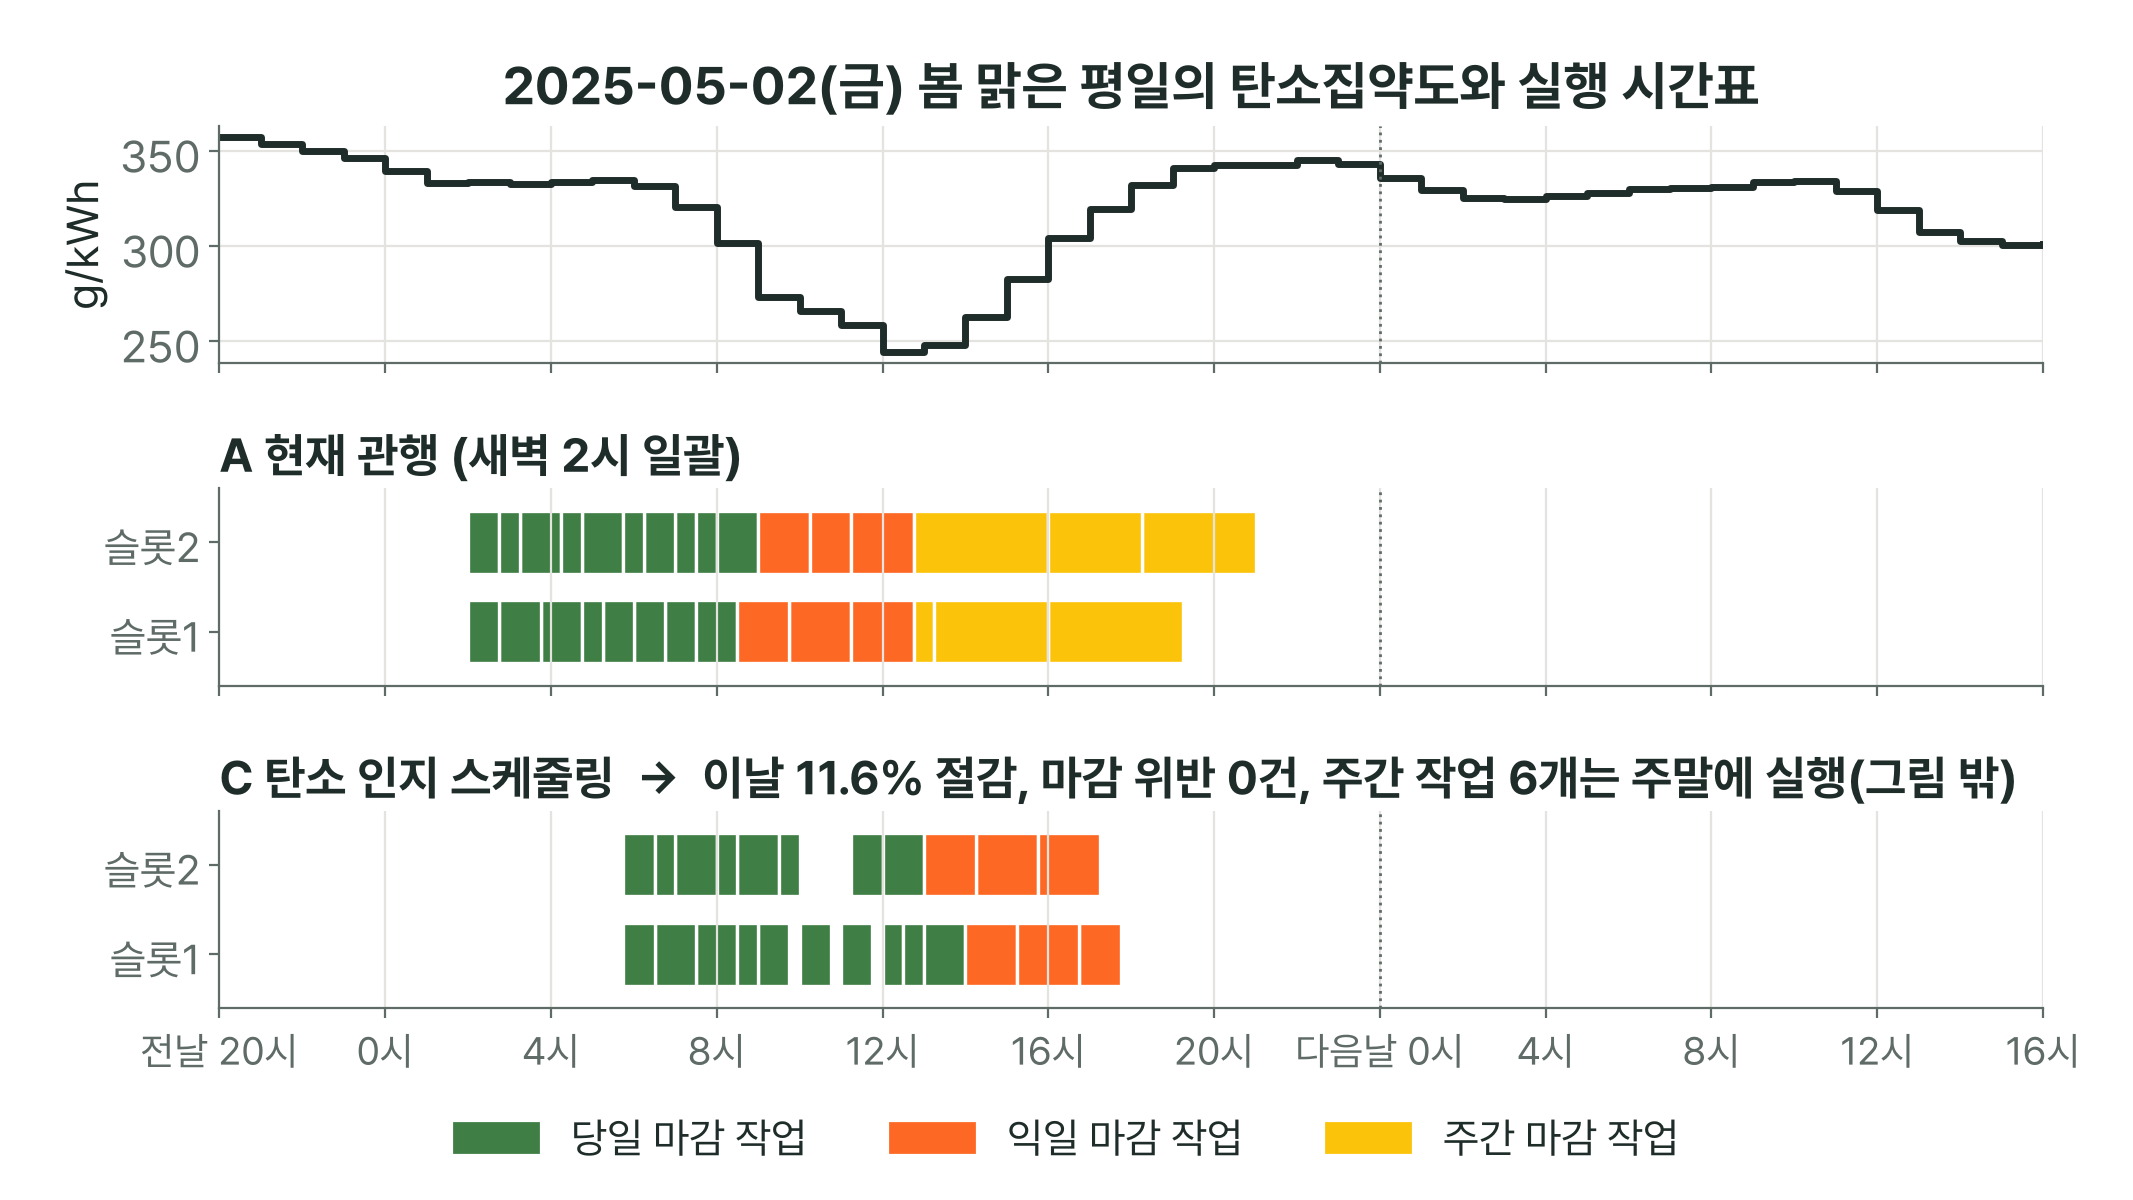
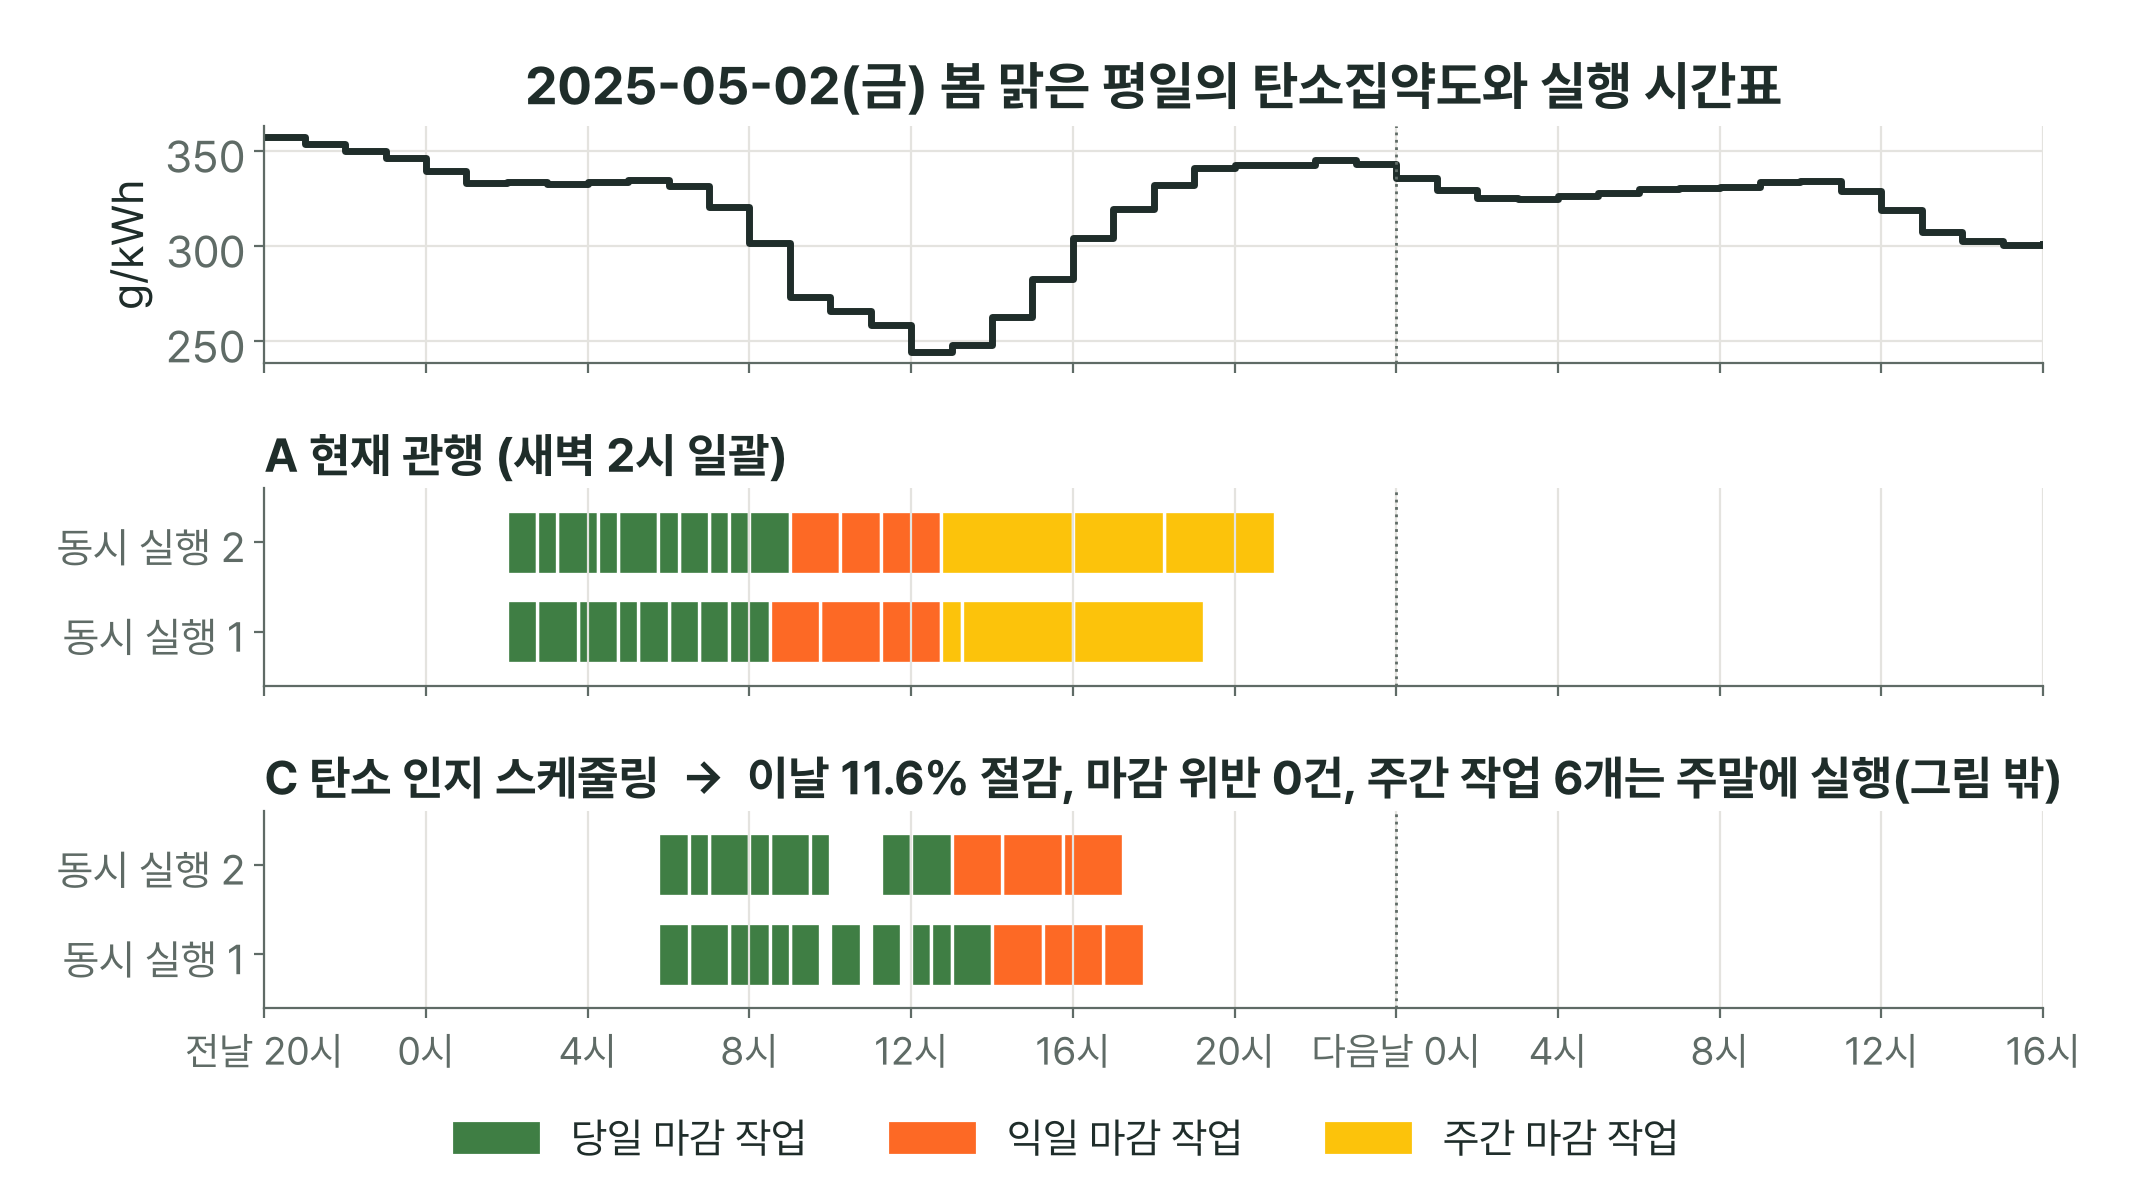
대본 비전공자용 표현 수정, 1장 대본 교체, 간트 축 라벨, 내보내기 안전장치
- 1장 대본: 배치 작업의 뜻과 은행 정산 예를 넣은 새 대본으로 교체
- 7·8·15장 대본: 스케줄링, 가능성 검사, 에이징, 메모리 대기를 쉬운 말로 풀어 씀
- 10장 간트 차트 y축 '슬롯1/2' -> '동시 실행 1/2'
- 09_export_deck.ps1: 결과 파일이 열려 있으면 멈추고, 원래 실행 중이던 PowerPoint는 닫지 않음
- 대본.md 갱신(2,330음절, 약 7.8~8.6분), 발표자 노트 재생성

diff --git a/scripts/07_slide_figures.py b/scripts/07_slide_figures.py
@@ -233,7 +233,7 @@ def fig_gantt_ac(plt, name: str):
             ax.barh(row.slot, min(row.end_h, x_max) - row.start_h, left=row.start_h, height=0.7,
                     color=colors[row.cls], edgecolor="white", lw=1.2)
         ax.set_yticks(range(cfg.SLOTS))
-        ax.set_yticklabels([f"슬롯{i + 1}" for i in range(cfg.SLOTS)], fontsize=15)
+        ax.set_yticklabels([f"동시 실행 {i + 1}" for i in range(cfg.SLOTS)], fontsize=15)
         ax.set_ylim(-0.6, cfg.SLOTS - 0.4)
         ax.grid(axis="y", visible=False)
         tot = r["emis_g"].sum()

diff --git a/04_발표자료/slides_draft.md b/04_발표자료/slides_draft.md
@@ -17,8 +17,8 @@
   - SDG 7.3 · 9.4 · 13.3
   - 숭실대학교 컴퓨터학부 박수진 (학번은 제출본 표지에만 넣고 저장소에는 두지 않음)
 - **그래프:** 없음
-- **대본 (약 25초):**
-  안녕하세요, 박수진입니다. 저는 Spring Batch로 항공권 가격을 정기적으로 바꾸는 배치를 운영해 본 적이 있습니다. 이런 배치는 보통 사람이 적은 새벽에 돌립니다. 그런데 새벽이 정말 지구에도 좋은 시간일까요? 오늘은 "내가 돌려 본 배치를 탄소를 생각하는 방식으로 바꾼다면"이라는 질문에서 시작한 프로젝트를 소개하겠습니다.
+- **대본 (약 40초):**
+  안녕하세요, 박수진입니다. 저는 항공권 가격을 정기적으로 바꾸는 배치 작업을 운영해 본 적이 있습니다. 배치 작업이란 데이터를 들어올 때마다 하나씩 처리하지 않고, 모아 두었다가 정해진 시간에 한꺼번에 처리하는 방식입니다. 은행이 밤에 하루치 거래를 한 번에 정산하는 것이 대표적입니다. 이런 배치는 보통 사람이 적은 새벽에 돌립니다. 그런데 새벽이 정말 지구에도 좋은 시간일까요? 오늘은 "내가 돌려 본 배치를 탄소를 생각하는 방식으로 바꾼다면"이라는 질문에서 시작한 프로젝트를 소개하겠습니다.
 
 ---
 
@@ -119,7 +119,7 @@
 - **하단:** EDF: 마감 빠른 순 처리(8장에서 설명) · DVFS: CPU 속도·전압 조절(15장에서 설명)
 - **그래프:** 없음 (표)
 - **대본 (약 30초):**
-  운영체제에서는 CPU 스케줄링에 탄소라는 비용을 더하고, 마감이 급한 일부터 처리하기, 모두 마감 안에 끝낼 수 있는지 미리 확인하기, 오래 기다린 일 챙기기를 가져왔습니다. 컴퓨터구조의 전력 공식으로는 CPU 속도를 낮출 때 에너지가 얼마나 주는지 계산했습니다. 클라우드네트워킹에서는 작업을 "언제" 돌릴지 옮기는 부분을 구현했습니다. 확률과통계로는 탄소의 분포와 예측 오차를 봤습니다.
+  운영체제에서는 컴퓨터가 여러 일의 순서를 정하는 방법인 스케줄링에 탄소라는 비용을 더하고, 마감이 급한 일부터 처리하기, 모두 마감 안에 끝낼 수 있는지 미리 확인하기, 오래 기다린 일 챙기기를 가져왔습니다. 컴퓨터구조의 전력 공식으로는 CPU 속도를 낮출 때 에너지가 얼마나 줄어드는지 계산했습니다. 클라우드네트워킹에서는 작업을 "언제" 돌릴지 옮기는 부분을 구현했습니다. 확률과통계로는 탄소의 분포와 예측 오차를 봤습니다.
 
 ---
 
@@ -133,7 +133,7 @@
 - **용어:** EDF(Earliest Deadline First)는 마감이 빠른 작업부터 처리하는 방식. 가능성 검사(schedulability test)는 "이 작업들을 모두 마감 안에 끝낼 수 있는가"를 미리 따져 보는 것. 기아(starvation)는 작업이 계속 뒤로 밀려 실행되지 못하는 상태, 에이징은 기다린 시간만큼 우선순위를 올려 기아를 막는 방법.
 - **그래프:** PowerPoint 도형으로 그린 흐름도 (`scripts/08_build_deck.py`의 `flowchart`)
 - **대본 (약 30초):**
-  처음에는 탄소가 가장 적은 시간만 기다리게 했더니, 모든 작업이 같은 한낮을 노리다 1년 동안 마감을 3,400번 놓쳤습니다. 그래서 실시간 스케줄링의 가능성 검사를 넣었습니다. 15분마다 "지금 아무것도 안 돌려도 마감을 다 지킬 수 있나"를 확인하고, 안 되면 급한 작업부터 돌립니다. 오래 기다린 작업은 기준을 넓혀 주는 에이징도 더했습니다.
+  처음에는 탄소가 가장 적은 시간만 기다리게 했더니, 모든 작업이 같은 한낮을 노리다 1년 동안 마감을 3,400번 놓쳤습니다. 그래서 15분마다 "지금 아무것도 안 돌려도 마감을 다 지킬 수 있나"를 미리 따져 보는 가능성 검사를 넣었고, 안 되면 급한 작업부터 돌립니다. 오래 기다린 작업은 기준을 넓혀 주는 방식, 에이징도 더했습니다.
 
 ---
 
@@ -254,7 +254,7 @@
 - **하단:** 전체 절감 22~49%(기본 37%)는 정적 전력 비율 가정 0.5~0.21(기본 0.33)에 따른 범위. 근거: SPECpower 중앙값, Barroso 외(2018, 2007)
 - **그래프:** `04_발표자료/figures/08_정책별_절감률_ACD.png` (D 막대의 세로선이 가정 범위)
 - **대본 (약 25초):**
-  스케줄링에 더할 수 있는 두 번째 방법은 필요 이상으로 빠르게 돌리지 않는 것입니다. 메모리를 기다리는 시간이 긴 작업은 CPU 속도를 낮춰도 거의 느려지지 않습니다. 스케줄링과 함께 쓰면 전체 절감이 기본 가정에서 37%로 커지지만, CPU 밖의 전력을 얼마로 보느냐에 따라 22%에서 49%까지 달라집니다.
+  스케줄링에 더할 수 있는 두 번째 방법은 필요 이상으로 빠르게 돌리지 않는 것입니다. CPU가 아니라 메모리에서 데이터가 오기를 기다리느라 시간을 보내는 작업은 CPU 속도를 낮춰도 거의 느려지지 않습니다. 스케줄링과 함께 쓰면 전체 절감이 기본 가정에서 37%로 커지지만, CPU 밖의 전력을 얼마로 보느냐에 따라 22%에서 49%까지 달라집니다.
 
 ---
 

diff --git a/04_발표자료/대본.md b/04_발표자료/대본.md
@@ -2,15 +2,15 @@
 
 `scripts/10_export_script.py`가 `04_발표자료/slides_draft.md`에서 자동으로 뽑은 문서다. 대본을 고칠 때는 원고를 고치고 다시 실행한다.
 
-- 전체 19장, 2,225음절, 예상 7.4~8.2분(초당 5~4.5음절)
+- 전체 19장, 2,330음절, 예상 7.8~8.6분(초당 5~4.5음절)
 
 ---
 
 ## 1. 표지
 
-*127음절, 약 25~28초*
+*204음절, 약 41~45초*
 
-안녕하세요, 박수진입니다. 저는 Spring Batch로 항공권 가격을 정기적으로 바꾸는 배치를 운영해 본 적이 있습니다. 이런 배치는 보통 사람이 적은 새벽에 돌립니다. 그런데 새벽이 정말 지구에도 좋은 시간일까요? 오늘은 "내가 돌려 본 배치를 탄소를 생각하는 방식으로 바꾼다면"이라는 질문에서 시작한 프로젝트를 소개하겠습니다.
+안녕하세요, 박수진입니다. 저는 항공권 가격을 정기적으로 바꾸는 배치 작업을 운영해 본 적이 있습니다. 배치 작업이란 데이터를 들어올 때마다 하나씩 처리하지 않고, 모아 두었다가 정해진 시간에 한꺼번에 처리하는 방식입니다. 은행이 밤에 하루치 거래를 한 번에 정산하는 것이 대표적입니다. 이런 배치는 보통 사람이 적은 새벽에 돌립니다. 그런데 새벽이 정말 지구에도 좋은 시간일까요? 오늘은 "내가 돌려 본 배치를 탄소를 생각하는 방식으로 바꾼다면"이라는 질문에서 시작한 프로젝트를 소개하겠습니다.
 
 ---
 
@@ -56,17 +56,17 @@
 
 ## 7. 이번 학기 수업과 연결
 
-*156음절, 약 31~35초*
+*175음절, 약 35~39초*
 
-운영체제에서는 CPU 스케줄링에 탄소라는 비용을 더하고, 마감이 급한 일부터 처리하기, 모두 마감 안에 끝낼 수 있는지 미리 확인하기, 오래 기다린 일 챙기기를 가져왔습니다. 컴퓨터구조의 전력 공식으로는 CPU 속도를 낮출 때 에너지가 얼마나 주는지 계산했습니다. 클라우드네트워킹에서는 작업을 "언제" 돌릴지 옮기는 부분을 구현했습니다. 확률과통계로는 탄소의 분포와 예측 오차를 봤습니다.
+운영체제에서는 컴퓨터가 여러 일의 순서를 정하는 방법인 스케줄링에 탄소라는 비용을 더하고, 마감이 급한 일부터 처리하기, 모두 마감 안에 끝낼 수 있는지 미리 확인하기, 오래 기다린 일 챙기기를 가져왔습니다. 컴퓨터구조의 전력 공식으로는 CPU 속도를 낮출 때 에너지가 얼마나 줄어드는지 계산했습니다. 클라우드네트워킹에서는 작업을 "언제" 돌릴지 옮기는 부분을 구현했습니다. 확률과통계로는 탄소의 분포와 예측 오차를 봤습니다.
 
 ---
 
 ## 8. 스케줄러 설계: 탄소는 아끼고, 마감은 지킨다
 
-*132음절, 약 26~29초*
+*126음절, 약 25~28초*
 
-처음에는 탄소가 가장 적은 시간만 기다리게 했더니, 모든 작업이 같은 한낮을 노리다 1년 동안 마감을 3,400번 놓쳤습니다. 그래서 실시간 스케줄링의 가능성 검사를 넣었습니다. 15분마다 "지금 아무것도 안 돌려도 마감을 다 지킬 수 있나"를 확인하고, 안 되면 급한 작업부터 돌립니다. 오래 기다린 작업은 기준을 넓혀 주는 에이징도 더했습니다.
+처음에는 탄소가 가장 적은 시간만 기다리게 했더니, 모든 작업이 같은 한낮을 노리다 1년 동안 마감을 3,400번 놓쳤습니다. 그래서 15분마다 "지금 아무것도 안 돌려도 마감을 다 지킬 수 있나"를 미리 따져 보는 가능성 검사를 넣었고, 안 되면 급한 작업부터 돌립니다. 오래 기다린 작업은 기준을 넓혀 주는 방식, 에이징도 더했습니다.
 
 ---
 
@@ -120,9 +120,9 @@
 
 ## 15. 더 줄일 수 있을까: 필요 이상으로 빠르게 돌리지 않기(DVFS)
 
-*113음절, 약 23~25초*
+*128음절, 약 26~28초*
 
-스케줄링에 더할 수 있는 두 번째 방법은 필요 이상으로 빠르게 돌리지 않는 것입니다. 메모리를 기다리는 시간이 긴 작업은 CPU 속도를 낮춰도 거의 느려지지 않습니다. 스케줄링과 함께 쓰면 전체 절감이 기본 가정에서 37%로 커지지만, CPU 밖의 전력을 얼마로 보느냐에 따라 22%에서 49%까지 달라집니다.
+스케줄링에 더할 수 있는 두 번째 방법은 필요 이상으로 빠르게 돌리지 않는 것입니다. CPU가 아니라 메모리에서 데이터가 오기를 기다리느라 시간을 보내는 작업은 CPU 속도를 낮춰도 거의 느려지지 않습니다. 스케줄링과 함께 쓰면 전체 절감이 기본 가정에서 37%로 커지지만, CPU 밖의 전력을 얼마로 보느냐에 따라 22%에서 49%까지 달라집니다.
 
 ---
 
